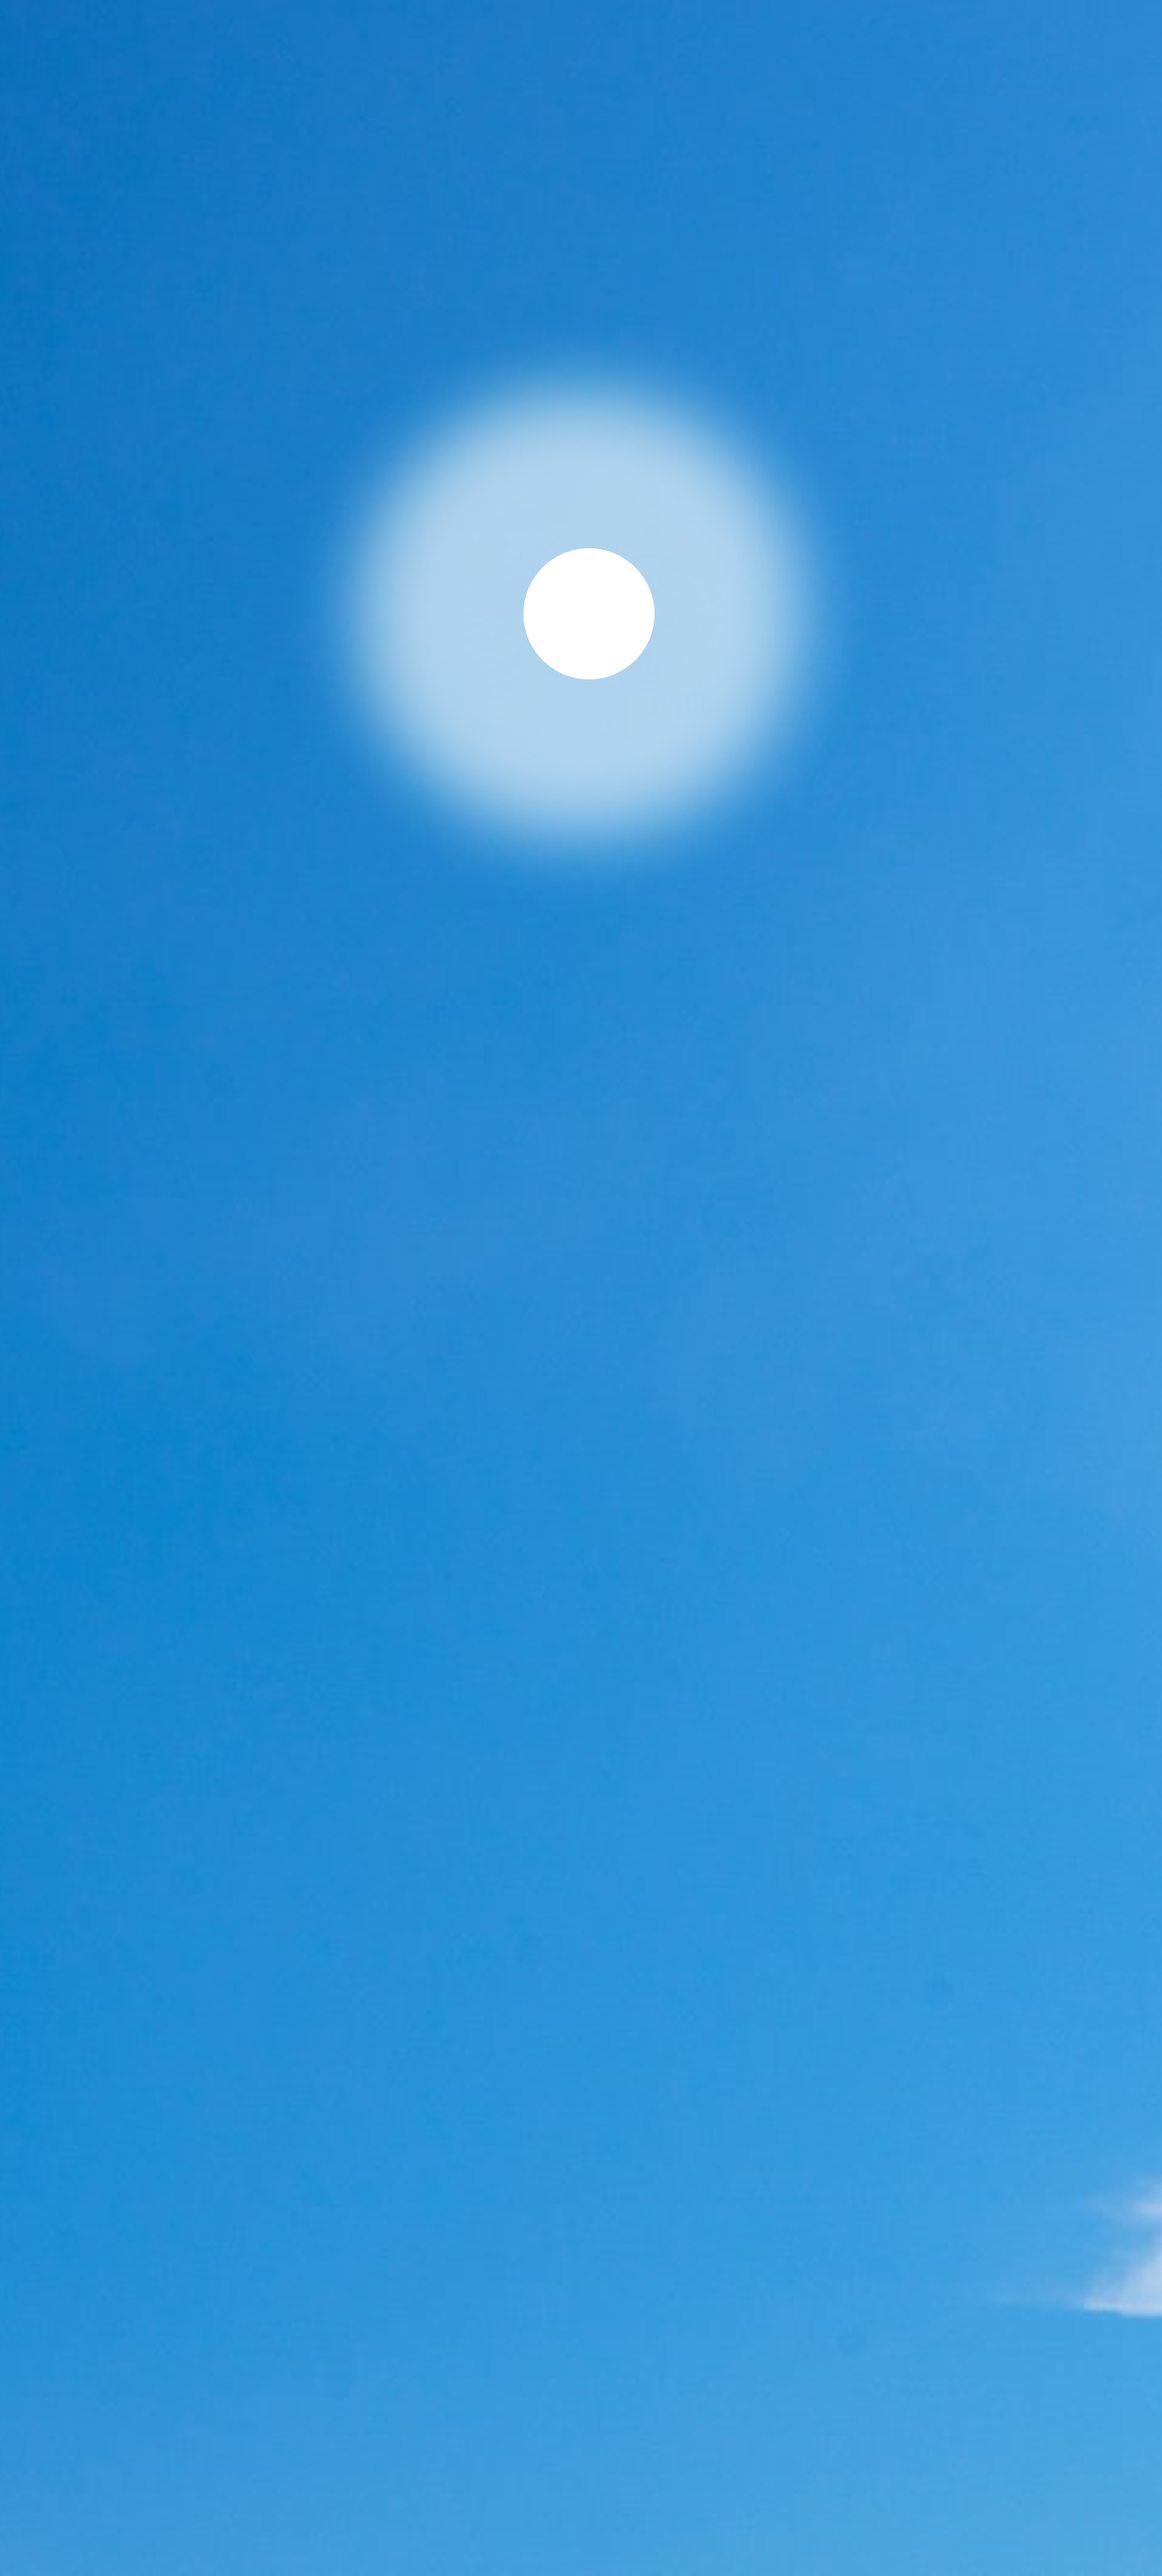
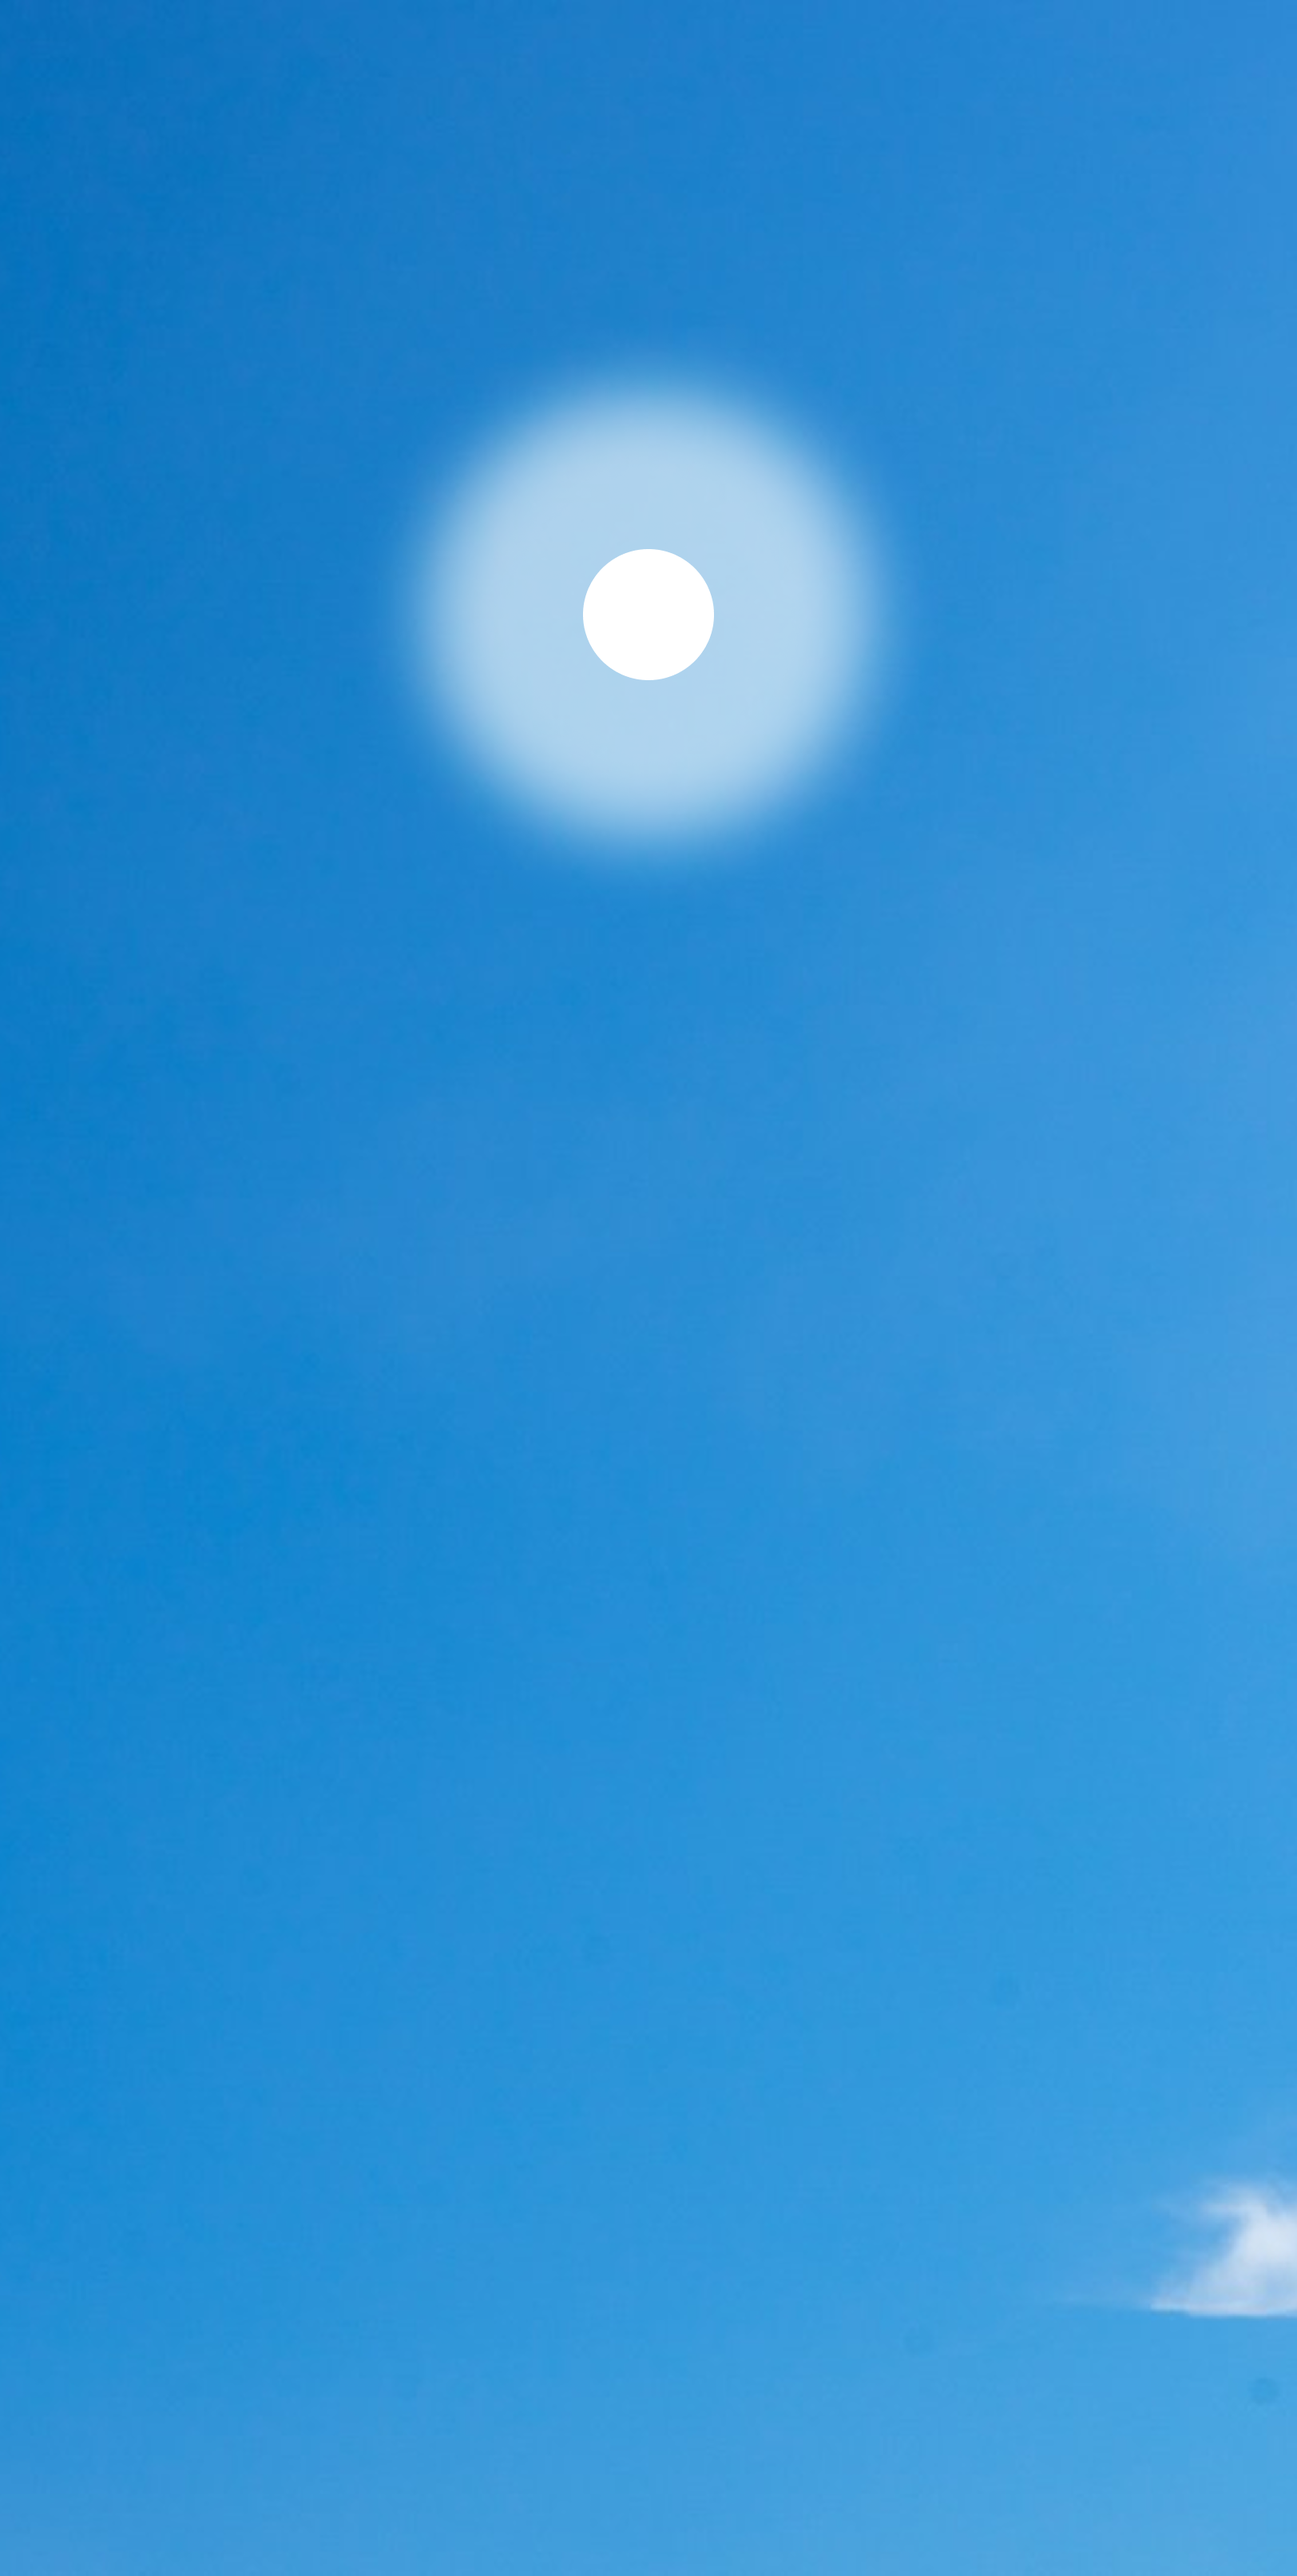
1807

diff --git a/docs/next.css b/docs/next.css
@@ -1,36 +1,72 @@
-.body {
-  display:contents;
-  position: relative;
-  height: 2000px;
-  width:2000px;
+html{
+  overflow-x: hidden; 
+  margin-bottom: -10px;
+  margin-left: -20px;
+ 
+ 
+}
+
+body {
+  width: 1000px;
+  
 }
 
 
-.haikei {
+* {
+  outline: 1px solid red;
+}
+
+
+
+.fade-out{
+  display: flex;
   position: absolute;
-  top: 0;
-  left: 0;
-  width: 100vw;
-  height: 3000px;
-  z-index: -1;
+  top:0px;
+  opacity: 1;
+  animation: fadeOut 3s ease-in-out forwards;
 }
-
-.haikei img {
+.fade-out img {
   width: 100%;
   height: 100%;
+  max-width: 100vw;
   object-fit: cover;
+}
+
+.fade-in {
+  display: flex;
+  position: absolute;
+  top:0px;
+  opacity: 0;
+  animation: fadeIn 3s ease-in-out forwards;
+  
+}
+.fade-in img {
+  width: 100%;
+  height: 100%;
+  max-width: 100vw;
+  object-fit: cover;
+}
+
+@keyframes fadeOut {
+  0%   { opacity: 1; }
+  100% { opacity: 0; }
+}
+
+@keyframes fadeIn {
+  0%   { opacity: 0; }
+  100% { opacity: 1; }
 }
 
 
 .hana1{
   position:absolute;
-  top:2600px;
+  top:2380px;
 }
 
 .hana2{
   position:absolute;
-  top: 2600px;
-  left:600px;
+  top: 2380px;
+  left:500px;
 }
 
 
@@ -55,8 +91,8 @@
   background-image: url("img/ame.png");
   background-size: contain;
   background-repeat: no-repeat;
-  animation: fallRain 10s ease-in;
-  animation-iteration-count: 3; /* 3回繰り返す */
+  animation: fallRain 10s ease-in infinite;
+  
 }
 
 /* 雨のアニメーション */
@@ -192,7 +228,7 @@
   justify-content: center;
   gap: 100px;
   position: relative;
-  top:2100px;
+  top:1850px;
   
 }
 
@@ -236,8 +272,8 @@
 
     .reflection-container {
       position: relative;
-      top:3720px;
-      width: 100%;
+      top:3010px;
+      width: 100vw;
       height: 100px;
       transform: scaleY(0.5);
       

diff --git a/docs/next.html b/docs/next.html
@@ -7,13 +7,17 @@
     <link rel="stylesheet" href="next.css">
     
 </head>
-<content>
- <body>
+
+<body>
   <div class="content" id="original">
-   <div class="haikei">
-     <img src= "img/top2.png">
-   </div>
-  </div>
+    <div class="fade-out">
+     <img src="img/top.png">
+    </div>
+   
+    <div class="fade-in">
+     <img src="img/top2.png">
+    </div>
+
 
    <div class="hana1">
      <img src="img/hana.png">
@@ -110,7 +114,7 @@
   </div>
 
 
-   </div> 
+</div> 
 
    <div class="reflection-container" id="mirror-container"></div>
 
@@ -126,6 +130,6 @@
 
   <script src="next.js"></script>
 
- </body>
-</content>
+
+</body>
 </html>

diff --git a/docs/style.css b/docs/style.css
@@ -1,7 +1,18 @@
+html{
+  overflow-x: hidden; 
+  margin-bottom: -10px;
+  margin-left: -20px;
+  margin-right: -50px;
+
+}
 
 .body {
-  width: 1100px;
+  width: 1000px;
   
+}
+
+* {
+  outline: 1px solid red;
 }
 
 
@@ -38,8 +49,9 @@
 
 /* 雲のコンテナ　*/
 .cloud-wrapper {
-  display:flex;
   margin-top: 0px;
+  display:flex;
+  justify-content: center;
 }
 
 

diff --git a/docs/next.js b/docs/next.js
@@ -30,3 +30,5 @@ window.addEventListener('load', () => {
    clone.classList.add("mirror");
 
    document.getElementById("mirror-container").appendChild(clone);
+
+   
